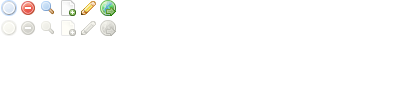
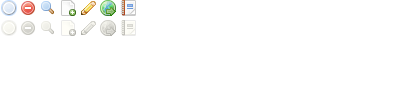
More blog admin UI cleanup

Changed region(s): [[0.3, 0.0, 0.36, 0.18], [0.3, 0.21, 0.33, 0.36]]

diff --git a/src/Orchard.Web/Content/Admin/css/base.css b/src/Orchard.Web/Content/Admin/css/base.css
@@ -493,6 +493,10 @@ a.ibutton.publish,
 a.ibutton.publish:link,
 a.ibutton.publish:visited { background-position:-100px -20px; }
 a.ibutton.publish:hover, a.ibutton.publish:active, a.ibutton.publish:focus { background-position:-100px 0; }
+a.ibutton.blog,
+a.ibutton.blog:link,
+a.ibutton.blog:visited { background-position:-120px -20px; }
+a.ibutton.blog:hover, a.ibutton.blog:active, a.ibutton.blog:focus { background-position:-120px 0; }
 
 
 /* todo: (heskew) needs attention */
@@ -566,6 +570,7 @@ ol.actions label {
 #main .contentItems li:hover a.ibutton.add.page { background-position:-60px 0; }
 #main .contentItems li:hover a.ibutton.edit { background-position:-80px 0; }
 #main .contentItems li:hover a.ibutton.publish { background-position:-100px 0; }
+#main .contentItems li:hover a.ibutton.blog { background-position:-120px 0; }
 
 /* Tables
 ----------------------------------------------------------*/

diff --git a/src/Orchard/Mvc/Html/HtmlHelperExtensions.cs b/src/Orchard/Mvc/Html/HtmlHelperExtensions.cs
@@ -87,28 +87,36 @@ namespace Orchard.Mvc.Html {
 
         #region Format Date/Time
 
+        public static string DateTimeRelative(this HtmlHelper htmlHelper, DateTime? value, string defaultIfNull) {
+            return value.HasValue ? htmlHelper.DateTimeRelative(value.Value) : defaultIfNull;
+        }
+
         //TODO: (erikpo) This method needs localized
-        public static string DateTime(this HtmlHelper htmlHelper, DateTime value)
-        {
+        public static string DateTimeRelative(this HtmlHelper htmlHelper, DateTime value) {
             TimeSpan time = System.DateTime.UtcNow - value;
 
             if (time.TotalDays > 7)
-                //TODO: (erikpo) This format should come from a site setting
-                return "at " + value.ToString("MMM d yyyy h:mm tt");
+                return "at " + htmlHelper.DateTime(value);
             if (time.TotalHours > 24)
                 return string.Format("{0} day{1} ago", time.Days, time.Days == 1 ? "" : "s");
             if (time.TotalMinutes > 60)
                 return string.Format("{0} hour{1} ago", time.Hours, time.Hours == 1 ? "" : "s");
             if (time.TotalSeconds > 60)
                 return string.Format("{0} minute{1} ago", time.Minutes, time.Minutes == 1 ? "" : "s");
-            else if (time.TotalSeconds > 10)
+            if (time.TotalSeconds > 10)
                 return string.Format("{0} second{1} ago", time.Seconds, time.Seconds == 1 ? "" : "s");
-            else
-                return "a moment ago";
+
+            return "a moment ago";
         }
 
-        public static string DateTime(this HtmlHelper htmlHelper, DateTime? value, string defaultIfNull) {
+        public static string DateTime(this HtmlHelper htmlHelper, DateTime? value, string defaultIfNull)
+        {
             return value.HasValue ? htmlHelper.DateTime(value.Value) : defaultIfNull;
+        }
+
+        //TODO: (erikpo) This format should come from a site setting
+        public static string DateTime(this HtmlHelper htmlHelper, DateTime value) {
+            return value.ToString("MMM d yyyy h:mm tt");
         }
 
         #endregion

diff --git a/src/Orchard.Web/Packages/Orchard.Blogs/Extensions/HtmlHelperExtensions.cs b/src/Orchard.Web/Packages/Orchard.Blogs/Extensions/HtmlHelperExtensions.cs
@@ -4,12 +4,18 @@ using Orchard.Mvc.Html;
 
 namespace Orchard.Blogs.Extensions {
     public static class HtmlHelperExtensions {
-        public static string Published(this HtmlHelper<BlogPost> htmlHelper) {
-            return htmlHelper.Published(htmlHelper.ViewData.Model);
+        public static string PublishedState(this HtmlHelper<BlogPost> htmlHelper) {
+            return htmlHelper.PublishedState(htmlHelper.ViewData.Model);
+        }
+        public static string PublishedState(this HtmlHelper htmlHelper, BlogPost blogPost) {
+            return htmlHelper.DateTime(blogPost.Published, "Draft");
         }
 
-        public static string Published(this HtmlHelper htmlHelper, BlogPost blogPost) {
-            return htmlHelper.DateTime(blogPost.Published, "as a Draft");
+        public static string PublishedWhen(this HtmlHelper<BlogPost> htmlHelper) {
+            return htmlHelper.PublishedWhen(htmlHelper.ViewData.Model);
+        }
+        public static string PublishedWhen(this HtmlHelper htmlHelper, BlogPost blogPost) {
+            return htmlHelper.DateTimeRelative(blogPost.Published, "as a Draft");
         }
     }
 }
